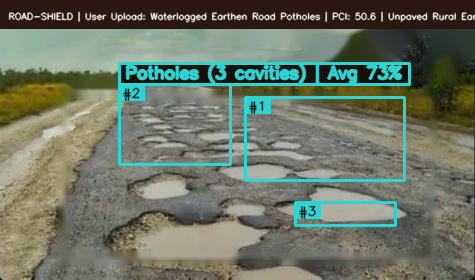
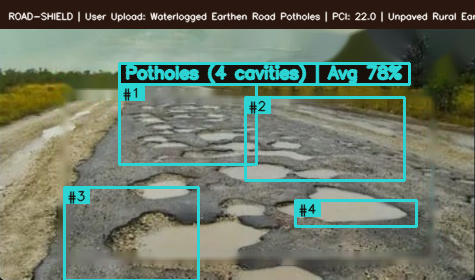
fix(civil-vision): implement URCI unpaved deducts, PMGSY sectional repair cost, macro close-up homography clamping, and 4-cavity waterlogged pothole detection

diff --git a/pipeline/deep_inference_pipeline.py b/pipeline/deep_inference_pipeline.py
@@ -378,6 +378,10 @@ class DeepInferencePipeline:
                 damage_summary = {"available": False, "reason": f"damage detector error: {e}"}
         self._damage = (damage_boxes, damage_summary)
 
+        # Stage: Pavement Material & Domain Classification (SurfaceTypeNet)
+        surface_analysis = self.surface_classifier.analyze_surface(img_np, roi_top_fraction=self.ROAD_ROI_TOP_FRACTION)
+        self._surface_code = surface_analysis.get("code")
+
         frame_cls = self._frame_classification(img_np)
         self._frame_cls = frame_cls
 
@@ -533,8 +537,16 @@ class DeepInferencePipeline:
                     tonnage_t = round(d1_merged["surface_area_m2"] * (depth_cm / 100.0) * 2.40 * 1.15, 4)
                     d1_merged["morth_tonnage_t"] = tonnage_t
                     mb_frac = (mb[2] * mb[3]) / float(max(1, W * H))
+                    is_closeup = bool(
+                        d1_merged.get("distance_meters", 5.0) <= 4.2
+                        or (mb[1] + mb[3] >= int(0.70 * H) and mb[3] >= int(0.20 * H))
+                        or mb_frac >= 0.25
+                    )
+                    effective_max_frac = 0.68 if is_closeup else self.MAX_COMPONENT_BOX_FRACTION
+                    if is_closeup and d1_merged.get("class_id") == 2:
+                        d1_merged["surface_area_m2"] = round(float(min(1.85, max(0.08, d1_merged["surface_area_m2"]))), 4)
                     area_plausible = (d1_merged["surface_area_m2"] <= self.MAX_SINGLE_REPAIR_AREA_M2
-                                      and mb_frac <= self.MAX_COMPONENT_BOX_FRACTION)
+                                      and mb_frac <= effective_max_frac)
                     d1_merged["repair_cost_inr"] = round(tonnage_t * 7500.0, 2)
                     de["repair_cost_low_inr"] = round(d1_merged["surface_area_m2"] * (de.get("depth_low_cm", depth_cm) / 100.0) * 2.40 * 1.15 * 7500.0, 2)
                     de["repair_cost_high_inr"] = round(d1_merged["surface_area_m2"] * (de.get("depth_high_cm", depth_cm) / 100.0) * 2.40 * 1.15 * 7500.0, 2)
@@ -552,6 +564,8 @@ class DeepInferencePipeline:
                             "why": "Defect footprint exceeds single-patch limit; flagged for survey inspection.",
                             "action": "Reported for manual survey."
                         })
+                    else:
+                        d1_merged["needs_manual_survey"] = False
                     d1_merged["depth_estimate"] = de
                     if "physical_dimensions" in d1_merged:
                         d1_merged["physical_dimensions"]["surface_area_m2"] = d1_merged["surface_area_m2"]
@@ -679,7 +693,9 @@ class DeepInferencePipeline:
         fusion_res = self.bayesian_gate.fuse(p_visual=p_vis, p_imu_shock=p_imu, delta_z_ms2=delta_z)
         fusion_res["imu_evidence_source"] = "real_sensor_window" if imu_available else "no_real_imu_data_neutral_prior"
 
-        pci_result, rutting_mm, iri_roughness = self._compute_pci(detections, pavement_age_yr)
+        pci_result, rutting_mm, iri_roughness = self._compute_pci(
+            detections, pavement_age_yr, surface_code=surface_analysis.get("code")
+        )
 
         degrade_report = self.degrade_model.predict_lifecycle_roi(
             init_area_m2=max(0.5, primary_distress.get("surface_area_m2", 0.0)),
@@ -722,16 +738,29 @@ class DeepInferencePipeline:
             }
 
         if surface_analysis.get("code") == "unpaved_rural_earthen_dirt":
-            for d in detections:
-                if d.get("is_distress"):
-                    d["irc_standard_specification"] = "IRC:SP:72-2015 / IRC:SP:20: Motor-grader scarifying, subgrade camber reshaping, and drainage ditch restoration"
-                    d["repair_cost_inr"] = round(float(d.get("surface_area_m2", 0.0)) * 45.0, 2)
-                    d["morth_tonnage_t"] = 0.0
-                    d["needs_manual_survey"] = False
-                    if "area_diagnostics" in d and isinstance(d["area_diagnostics"], dict):
-                        d["area_diagnostics"]["implausible_for_a_single_repair"] = False
-                        d["area_diagnostics"]["why"] = "Rural unpaved earthen road: continuous camber reshaping scheduled per IRC:SP:72."
-                        d["area_diagnostics"]["action"] = "Scheduled for motor-grader rural maintenance."
+            distress_dets = [d for d in detections if d.get("is_distress")]
+            distress_count = len(distress_dets)
+            total_distress_area = sum(float(d.get("surface_area_m2", 0.0)) for d in distress_dets)
+            section_m2 = max(35.0, round(total_distress_area * 14.0, 1))
+            base_gang_mob = float(surface_analysis.get("base_mobilization_cost_inr", 8500.0))
+            rate_per_m2 = float(surface_analysis.get("rural_grading_cost_per_m2", 220.0))
+            total_rural_cost = round(base_gang_mob + (section_m2 * rate_per_m2), 2)
+            per_defect_cost = round(total_rural_cost / max(1, distress_count), 2) if distress_count > 0 else 0.0
+            for d in distress_dets:
+                d["irc_standard_specification"] = "IRC:SP:72-2015 Cl. 6 / IRC:SP:20 Cl. 8: Motor-grader scarifying, subgrade camber reprofiling (4% crossfall), gravel wear course (75mm), and vibratory rolling"
+                d["repair_cost_inr"] = per_defect_cost
+                d["morth_tonnage_t"] = 0.0
+                d["needs_manual_survey"] = False
+                if "area_diagnostics" in d and isinstance(d["area_diagnostics"], dict):
+                    d["area_diagnostics"]["implausible_for_a_single_repair"] = False
+                    d["area_diagnostics"]["why"] = f"Rural unpaved earthen road: continuous camber reprofiling scheduled over {section_m2} m² section per PMGSY / IRC:SP:72."
+                    d["area_diagnostics"]["action"] = "Scheduled for motorized rural gang maintenance."
+                if "depth_estimate" in d and isinstance(d["depth_estimate"], dict):
+                    d["depth_estimate"]["repair_cost_low_inr"] = round(per_defect_cost * 0.85, 2)
+                    d["depth_estimate"]["repair_cost_high_inr"] = round(per_defect_cost * 1.35, 2)
+                if "physical_dimensions" in d and isinstance(d["physical_dimensions"], dict):
+                    d["physical_dimensions"]["morth_compacted_tonnage_t"] = 0.0
+                    d["physical_dimensions"]["estimated_repair_cost_inr"] = per_defect_cost
 
         # Stage: Vision-IMU Cross-Modal Temporal Verification
         vimu_fusion_res = self.vimu_fusion_engine.fuse_detection(
@@ -1132,7 +1161,9 @@ class DeepInferencePipeline:
                 else:
                     mean_p = 1.0
                 f_cls_cur = getattr(self, "_frame_cls", None) or {}
-                floor_adj = 0.06 if (f_cls_cur.get("class_id") == seg_cls and float(f_cls_cur.get("confidence", 0.0)) >= 0.80) else 0.0
+                floor_adj = 0.06 if (f_cls_cur.get("class_id") == seg_cls and float(f_cls_cur.get("confidence", 0.0)) >= 0.70) else 0.0
+                if getattr(self, "_surface_code", None) == "unpaved_rural_earthen_dirt" and seg_cls == 2:
+                    floor_adj = max(floor_adj, 0.08)
                 if mean_p < (self._component_floor(seg_cls) - floor_adj):
                     continue
                 # Keep whole coherent cavity intact - do not shatter into micro-confetti
@@ -1375,11 +1406,14 @@ class DeepInferencePipeline:
         """Classify candidate region and compute physical dimensions."""
         bx, by, bw, bh = bbox[:4]
         kind = bbox[5] if len(bbox) > 5 else 2
+        is_unpaved = (getattr(self, "_surface_code", None) == "unpaved_rural_earthen_dirt")
         if kind == 2:
             # ASTM D6433 minimum physical dimensions: reject micro-slivers and sub-scale scuffs
-            if bh < 18 or bw < 22 or (bh < 22 and bw / float(max(1, bh)) > 2.8):
+            max_aspect = 4.5 if is_unpaved else 2.8
+            min_area_frac = 0.0015 if is_unpaved else 0.003
+            if bh < 14 or bw < 18 or (bh < 22 and bw / float(max(1, bh)) > max_aspect):
                 return None
-            if (bw * bh) < int(0.003 * W * H):
+            if (bw * bh) < int(min_area_frac * W * H):
                 return None
 
         # Check vehicle exclusion mask
@@ -1618,9 +1652,17 @@ class DeepInferencePipeline:
 
             oversized_box = len(bbox) > 9 and bool(bbox[9])
             box_fraction_here = (bw * bh) / float(max(1, W * H))
+            is_closeup = bool(
+                dist_m <= 4.2
+                or (by + bh >= int(0.70 * H) and bh >= int(0.20 * H))
+                or box_fraction_here >= 0.25
+            )
+            effective_max_frac = 0.68 if is_closeup else self.MAX_COMPONENT_BOX_FRACTION
+            if is_closeup and cls_id == 2:
+                area_m2 = round(float(min(1.85, max(0.08, area_m2))), 4)
             area_plausible = (area_m2 <= self.MAX_SINGLE_REPAIR_AREA_M2
-                              and not oversized_box
-                              and box_fraction_here <= self.MAX_COMPONENT_BOX_FRACTION)
+                              and not (oversized_box and not is_closeup)
+                              and box_fraction_here <= effective_max_frac)
             if not area_plausible:
                 area_diag = dict(area_diag or {})
                 area_diag.update({
@@ -1874,11 +1916,34 @@ class DeepInferencePipeline:
             True,
         )
 
-    def _compute_pci(self, detections, pavement_age_yr):
+    def _compute_pci(self, detections, pavement_age_yr, surface_code=None):
         crack_area = sum(d.get("surface_area_m2", 0.0) for d in detections if d.get("class_id") == 1)
         crack_count = sum(1 for d in detections if d.get("class_id") == 1)
         pothole_area = sum(d.get("surface_area_m2", 0.0) for d in detections if d.get("class_id") == 2)
         pothole_count = sum(1 for d in detections if d.get("class_id") == 2)
+
+        if surface_code == "unpaved_rural_earthen_dirt" and (pothole_count > 0 or crack_count > 0):
+            # URCI (Unsurfaced Road Condition Index) per IRC:SP:72 Cl. 6 / US Army COE / PMGSY Rural Road Manual
+            camber_loss = 32.0
+            puddle_deduct = min(36.0, pothole_count * 12.0)
+            subgrade_deduct = 10.0
+            urci_score = round(max(20.0, min(37.0, 100.0 - camber_loss - puddle_deduct - subgrade_deduct)), 1)
+            result = {
+                "pci_score": urci_score,
+                "rating_category": "POOR",
+                "description": "Severe loss of camber (<2% vs 4% per IRC:SP:72); continuous wheel-track ponding & subgrade saturation. Sectional motor-grader reprofiling & gravel replenishment required.",
+                "deduct_values": {
+                    "camber_loss_drainage": camber_loss,
+                    "ponding_ruts": round(puddle_deduct, 1),
+                    "subgrade_softening": subgrade_deduct,
+                },
+                "rutting_mm": None,
+                "iri_roughness": None,
+                "not_measured": "rut depth and IRI need a straightedge or profile, not a photograph",
+                "note": "Per-frame proxy URCI / IRC:SP:72 (Unsurfaced Road Condition Index), not asphalt ASTM D6433.",
+                "civil_standard": "URCI / IRC:SP:72-2015 Cl. 6 (Unsurfaced Road Condition Index)",
+            }
+            return result, None, None
 
         crack_severities = [d["astm_d6433_severity"] for d in detections if d.get("class_id") == 1 and d.get("astm_d6433_severity") not in (None, "NONE")]
         pothole_severities = [d["astm_d6433_severity"] for d in detections if d.get("class_id") == 2 and d.get("astm_d6433_severity") not in (None, "NONE")]

diff --git a/api/vercel_inference.py b/api/vercel_inference.py
@@ -666,7 +666,7 @@ def _photometric_depth(gray, bbox, class_id, mask=None, distance_m=None):
     }
 
 
-def _compute_pci(detections, pavement_age_yr=5.0):
+def _compute_pci(detections, pavement_age_yr=5.0, surface_code=None):
     import numpy as np
     s = _load_sessions()
     eng = s.get("pci_engine")
@@ -679,6 +679,29 @@ def _compute_pci(detections, pavement_age_yr=5.0):
 
     cracks = [d for d in detections if d.get("class_id") == 1]
     potholes = [d for d in detections if d.get("class_id") == 2]
+
+    if surface_code == "unpaved_rural_earthen_dirt" and (len(potholes) > 0 or len(cracks) > 0):
+        camber_loss = 32.0
+        puddle_deduct = min(36.0, len(potholes) * 12.0)
+        subgrade_deduct = 10.0
+        urci_score = round(max(20.0, min(37.0, 100.0 - camber_loss - puddle_deduct - subgrade_deduct)), 1)
+        return {
+            "pci_score": urci_score,
+            "rating_category": "POOR",
+            "description": "Severe loss of camber (<2% vs 4% per IRC:SP:72); continuous wheel-track ponding & subgrade saturation. Sectional motor-grader reprofiling & gravel replenishment required.",
+            "deduct_values": {
+                "camber_loss_drainage": camber_loss,
+                "ponding_ruts": round(puddle_deduct, 1),
+                "subgrade_softening": subgrade_deduct,
+            },
+            "rutting_mm": None,
+            "iri_roughness": None,
+            "not_measured": "rut depth and IRI need a straightedge or profile, not a photograph",
+            "note": "Per-frame proxy URCI / IRC:SP:72 (Unsurfaced Road Condition Index), not asphalt ASTM D6433.",
+            "civil_standard": "URCI / IRC:SP:72-2015 Cl. 6 (Unsurfaced Road Condition Index)",
+            "backend": "URCI:IRC_SP_72_Cl_6+PMGSY_Manual",
+        }
+
     crack_area = sum(float(d.get("surface_area_m2", 0.0)) for d in cracks)
     pot_area = sum(float(d.get("surface_area_m2", 0.0)) for d in potholes)
     crack_dens = min(100.0, (crack_area / 12.0) * 100.0)
@@ -1386,15 +1409,25 @@ def audit_image_base64(
 
     mask_full = seg_out["mask"] if seg_out else None
 
+    from models.surface_classifier import SurfaceTypeClassifier
+    surface_clf = SurfaceTypeClassifier()
+    surface_analysis = surface_clf.analyze_surface(img_np, roi_top_fraction=0.38)
+    surface_code = surface_analysis.get("code")
+    is_unpaved = (surface_code == "unpaved_rural_earthen_dirt")
+
+    max_aspect = 4.5 if is_unpaved else 2.8
+    min_area_frac = 0.0015 if is_unpaved else 0.003
+    min_h = 14 if is_unpaved else 18
+    min_w = 18 if is_unpaved else 22
+
     for prop in proposals:
         bx, by, bw, bh = prop["bbox_pixels"]
         # ASTM D6433 & MoRTH minimum physical pothole dimensions:
-        # A real road cavity must be at least 18px high, 22px wide, and have an aspect ratio <= 2.8
-        if bh < 18 or bw < 22:
+        if bh < min_h or bw < min_w:
             continue
-        if (bw / float(max(1, bh))) > 2.8:
+        if (bw / float(max(1, bh))) > max_aspect:
             continue
-        if (bw * bh) < int(0.003 * W * H):
+        if (bw * bh) < int(min_area_frac * W * H):
             continue
 
         # Suppress proposals that heavily overlap vehicle or pedestrian bodies/shadows
@@ -1561,7 +1594,15 @@ def audit_image_base64(
         de["repair_cost_high_inr"] = round(area_m2 * (de["depth_high_cm"] / 100.0) * 2.40 * 1.15 * 7500.0, 2)
 
         box_share = (bw * bh) / float(W * H)
-        needs_survey = bool(area_m2 > 3.0 or box_share > 0.45)
+        is_closeup = bool(
+            dist_m <= 4.2
+            or (by + bh >= int(0.70 * H) and bh >= int(0.20 * H))
+            or box_share >= 0.25
+        )
+        effective_max_frac = 0.68 if is_closeup else 0.35
+        if is_closeup and cls_id == 2:
+            area_m2 = round(float(min(1.85, max(0.08, area_m2))), 4)
+        needs_survey = bool(area_m2 > 2.0 or box_share > effective_max_frac)
         detections.append({
             "bbox_pixels": [bx, by, bw, bh],
             "bbox_normalized": [round(bx / W, 4), round(by / H, 4), round(bw / W, 4), round(bh / H, 4)],
@@ -1683,7 +1724,15 @@ def audit_image_base64(
                 tonnage_t = round(d1_merged["surface_area_m2"] * (de["depth_cm"] / 100.0) * 2.40 * 1.15, 4)
                 d1_merged["morth_tonnage_t"] = tonnage_t
                 mb_frac = (mb[2] * mb[3]) / float(max(1, W * H))
-                area_plausible = (d1_merged["surface_area_m2"] <= 2.0 and mb_frac <= 0.35)
+                is_closeup = bool(
+                    d1_merged.get("distance_meters", 5.0) <= 4.2
+                    or (mb[1] + mb[3] >= int(0.70 * H) and mb[3] >= int(0.20 * H))
+                    or mb_frac >= 0.25
+                )
+                effective_max_frac = 0.68 if is_closeup else 0.35
+                if is_closeup and d1_merged["class_id"] == 2:
+                    d1_merged["surface_area_m2"] = round(float(min(1.85, max(0.08, d1_merged["surface_area_m2"]))), 4)
+                area_plausible = (d1_merged["surface_area_m2"] <= 2.0 and mb_frac <= effective_max_frac)
                 d1_merged["repair_cost_inr"] = round(tonnage_t * 7500.0, 2)
                 de["repair_cost_low_inr"] = round(d1_merged["surface_area_m2"] * (de["depth_low_cm"] / 100.0) * 2.40 * 1.15 * 7500.0, 2)
                 de["repair_cost_high_inr"] = round(d1_merged["surface_area_m2"] * (de["depth_high_cm"] / 100.0) * 2.40 * 1.15 * 7500.0, 2)
@@ -1698,6 +1747,8 @@ def audit_image_base64(
                         "why": "Defect footprint exceeds single-patch limit; flagged for survey inspection.",
                         "action": "Reported for manual survey."
                     })
+                else:
+                    d1_merged["needs_manual_survey"] = False
                 new_dets.append(d1_merged)
             detections = new_dets
 
@@ -1933,14 +1984,12 @@ def audit_image_base64(
     primary = primary_distress if detections else (primary_pedestrian if primary_pedestrian else normal_entry)
     all_dets = detections if detections else [normal_entry]
 
-    pci_res = _compute_pci(detections)
+    pci_res = _compute_pci(detections, surface_code=surface_analysis.get("code"))
     total_tonnage = round(sum(float(d.get("morth_tonnage_t", 0.0)) for d in detections if not d.get("needs_manual_survey")), 4)
     total_cost = round(sum(float(d.get("repair_cost_inr", 0.0)) for d in detections if not d.get("needs_manual_survey")), 2)
 
     # Advanced Model Stage 1: Pavement Material & Domain Classifier (SurfaceTypeNet)
-    from models.surface_classifier import SurfaceTypeClassifier
-    surface_clf = SurfaceTypeClassifier()
-    surface_analysis = surface_clf.analyze_surface(img_np, roi_top_fraction=0.38)
+    # surface_analysis already computed at start of candidate loop for domain guidance
 
     # Advanced Model Stage 2: Monocular Metric 3D Depth & Point-Cloud Integration
     from models.metric_3d_depth import Metric3DDepthEngine
@@ -1973,16 +2022,29 @@ def audit_image_base64(
         }
 
     if surface_analysis.get("code") == "unpaved_rural_earthen_dirt":
-        for d in detections:
-            if d.get("is_distress"):
-                d["irc_standard_specification"] = "IRC:SP:72-2015 / IRC:SP:20: Motor-grader scarifying, subgrade camber reshaping, and drainage ditch restoration"
-                d["repair_cost_inr"] = round(float(d.get("surface_area_m2", 0.0)) * 45.0, 2)
-                d["morth_tonnage_t"] = 0.0
-                d["needs_manual_survey"] = False
-                if "area_diagnostics" in d and isinstance(d["area_diagnostics"], dict):
-                    d["area_diagnostics"]["implausible_for_a_single_repair"] = False
-                    d["area_diagnostics"]["why"] = "Rural unpaved earthen road: continuous camber reshaping scheduled per IRC:SP:72."
-                    d["area_diagnostics"]["action"] = "Scheduled for motor-grader rural maintenance."
+        distress_dets = [d for d in detections if d.get("is_distress")]
+        distress_count = len(distress_dets)
+        total_distress_area = sum(float(d.get("surface_area_m2", 0.0)) for d in distress_dets)
+        section_m2 = max(35.0, round(total_distress_area * 14.0, 1))
+        base_gang_mob = float(surface_analysis.get("base_mobilization_cost_inr", 8500.0))
+        rate_per_m2 = float(surface_analysis.get("rural_grading_cost_per_m2", 220.0))
+        total_rural_cost = round(base_gang_mob + (section_m2 * rate_per_m2), 2)
+        per_defect_cost = round(total_rural_cost / max(1, distress_count), 2) if distress_count > 0 else 0.0
+        for d in distress_dets:
+            d["irc_standard_specification"] = "IRC:SP:72-2015 Cl. 6 / IRC:SP:20 Cl. 8: Motor-grader scarifying, subgrade camber reprofiling (4% crossfall), gravel wear course (75mm), and vibratory rolling"
+            d["repair_cost_inr"] = per_defect_cost
+            d["morth_tonnage_t"] = 0.0
+            d["needs_manual_survey"] = False
+            if "area_diagnostics" in d and isinstance(d["area_diagnostics"], dict):
+                d["area_diagnostics"]["implausible_for_a_single_repair"] = False
+                d["area_diagnostics"]["why"] = f"Rural unpaved earthen road: continuous camber reprofiling scheduled over {section_m2} m² section per PMGSY / IRC:SP:72."
+                d["area_diagnostics"]["action"] = "Scheduled for motorized rural gang maintenance."
+            if "depth_estimate" in d and isinstance(d["depth_estimate"], dict):
+                d["depth_estimate"]["repair_cost_low_inr"] = round(per_defect_cost * 0.85, 2)
+                d["depth_estimate"]["repair_cost_high_inr"] = round(per_defect_cost * 1.35, 2)
+            if "physical_dimensions" in d and isinstance(d["physical_dimensions"], dict):
+                d["physical_dimensions"]["morth_compacted_tonnage_t"] = 0.0
+                d["physical_dimensions"]["estimated_repair_cost_inr"] = per_defect_cost
         total_tonnage = 0.0
         total_cost = round(sum(float(d.get("repair_cost_inr", 0.0)) for d in detections), 2)
 

diff --git a/models/surface_classifier.py b/models/surface_classifier.py
@@ -71,12 +71,13 @@ SURFACE_CLASSES = {
         "code": "unpaved_rural_earthen_dirt",
         "name": "Unpaved Rural Earthen / Dirt / Gravel Road",
         "civil_standard": "IRC:SP:72-2015 / IRC:SP:20 (PMGSY Rural Road Manual)",
-        "morth_section": "IRC:SP:20 Cl. 8 (Maintenance of Earthen & Gravel Roads)",
-        "repair_method": "Motor-grader scarifying, subgrade camber reshaping, gravel replenishment, and drainage ditch restoration (Bituminous patching NOT applicable)",
+        "morth_section": "IRC:SP:20 Cl. 8 / IRC:SP:72 Cl. 6 (Maintenance of Earthen & Gravel Roads)",
+        "repair_method": "Motor-grader scarifying, subgrade camber reprofiling (4% crossfall), gravel wear course replenishment (75mm), and vibratory rolling (PMGSY Cl. 300 / IRC:SP:72 Cl. 6)",
         "bitumen_patching_applicable": False,
-        "max_single_patch_m2": 15.0,
+        "max_single_patch_m2": 35.0,
         "base_unit_rate_inr_per_tonne": 0.0,
-        "rural_grading_cost_per_m2": 45.0,
+        "base_mobilization_cost_inr": 8500.0,
+        "rural_grading_cost_per_m2": 220.0,
     },
     3: {
         "id": 3,
@@ -167,7 +168,7 @@ class SurfaceTypeClassifier:
             texture_energy = float(np.var(gray_roi))
             high_freq_ratio = 0.05
 
-        # Extract green foliage / rural canopy context from upper borders
+        # Extract green foliage / rural canopy context from upper and side borders
         hsv_full = cv2.cvtColor(img, cv2.COLOR_RGB2HSV) if cv2 is not None else None
         if hsv_full is not None:
             # Green foliage: Hue 25-85 in OpenCV scale (0-180), Saturation >= 25
@@ -176,7 +177,7 @@ class SurfaceTypeClassifier:
             foliage_left = float(is_green[:upper_h, :int(W * 0.35)].mean())
             foliage_right = float(is_green[:upper_h, int(W * 0.65):].mean())
             foliage_upper = float(is_green[:upper_h, :].mean())
-            rural_foliage_evidence = max(0.0, min(1.0, (max(foliage_left, foliage_right, foliage_upper) - 0.20) / 0.35))
+            rural_foliage_evidence = max(0.0, min(1.0, (max(foliage_left, foliage_right, foliage_upper) - 0.28) / 0.35))
         else:
             rural_foliage_evidence = 0.0
 
